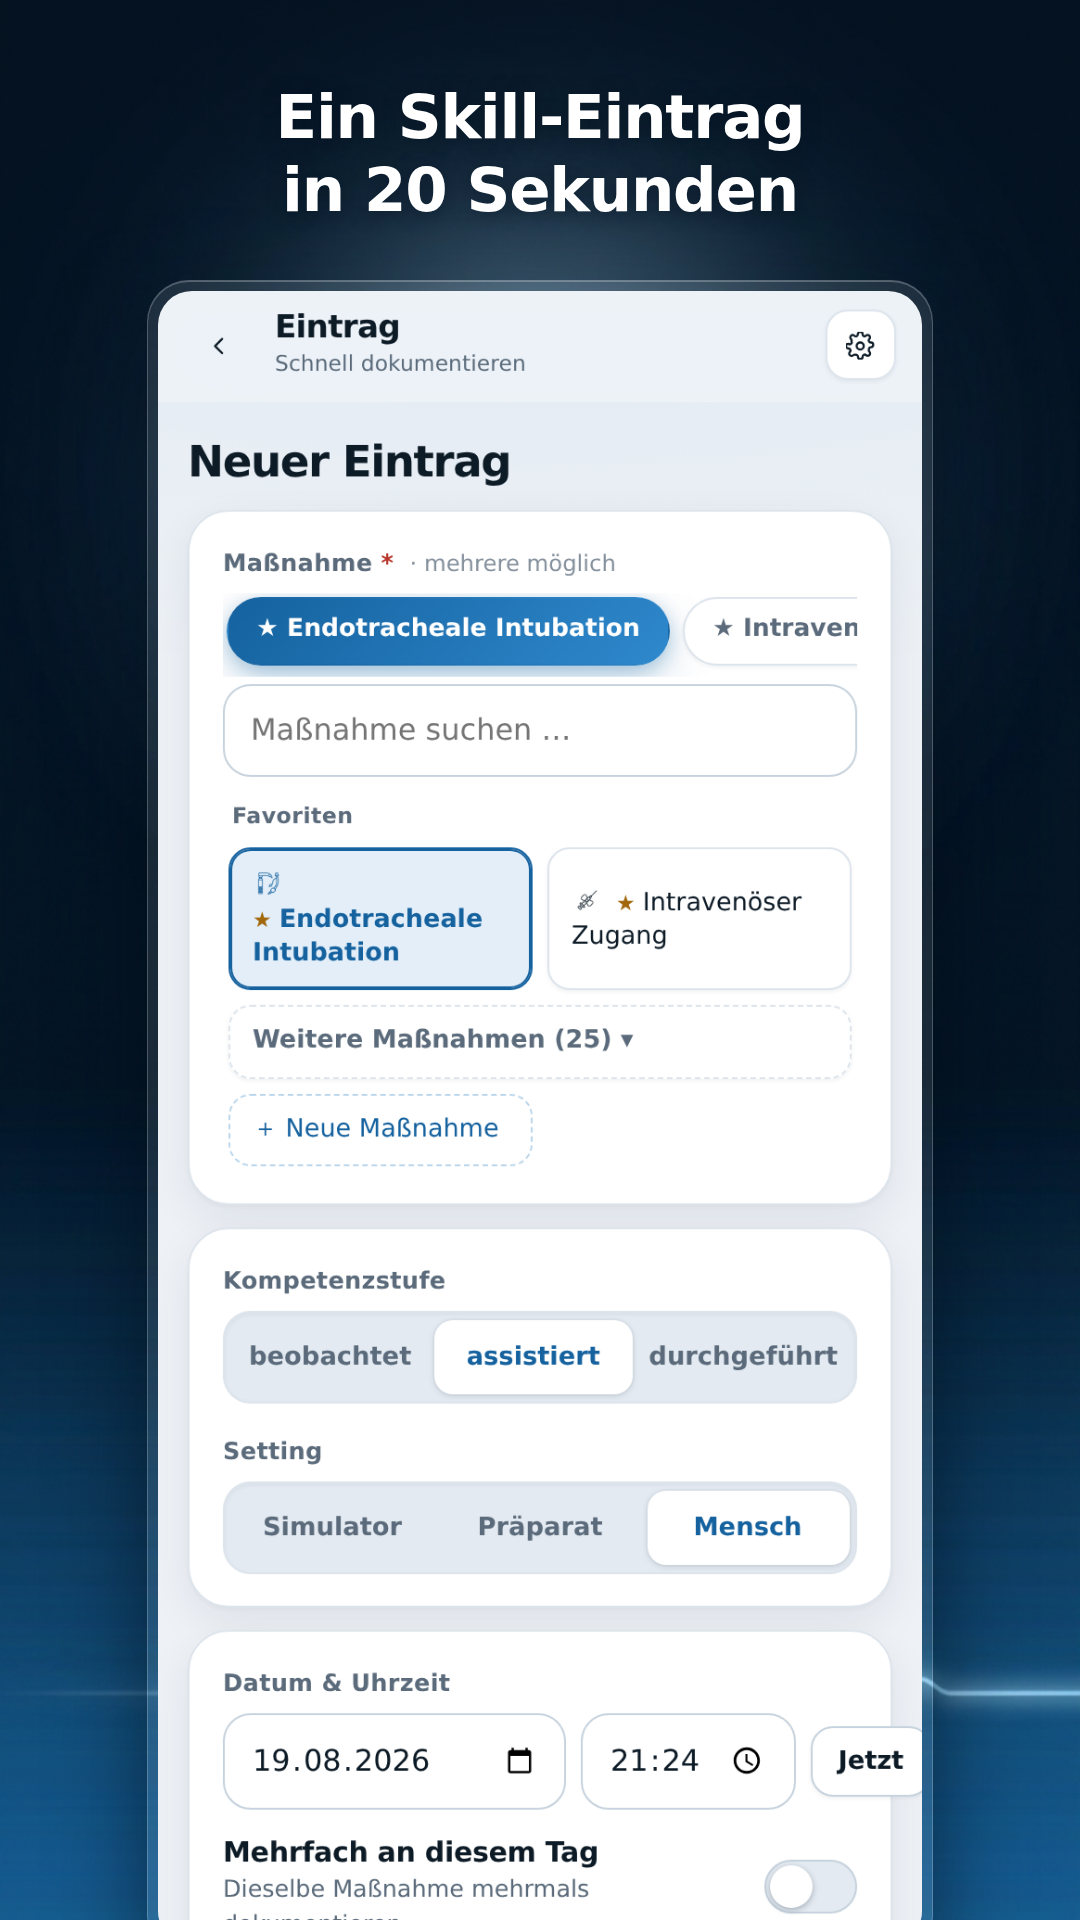
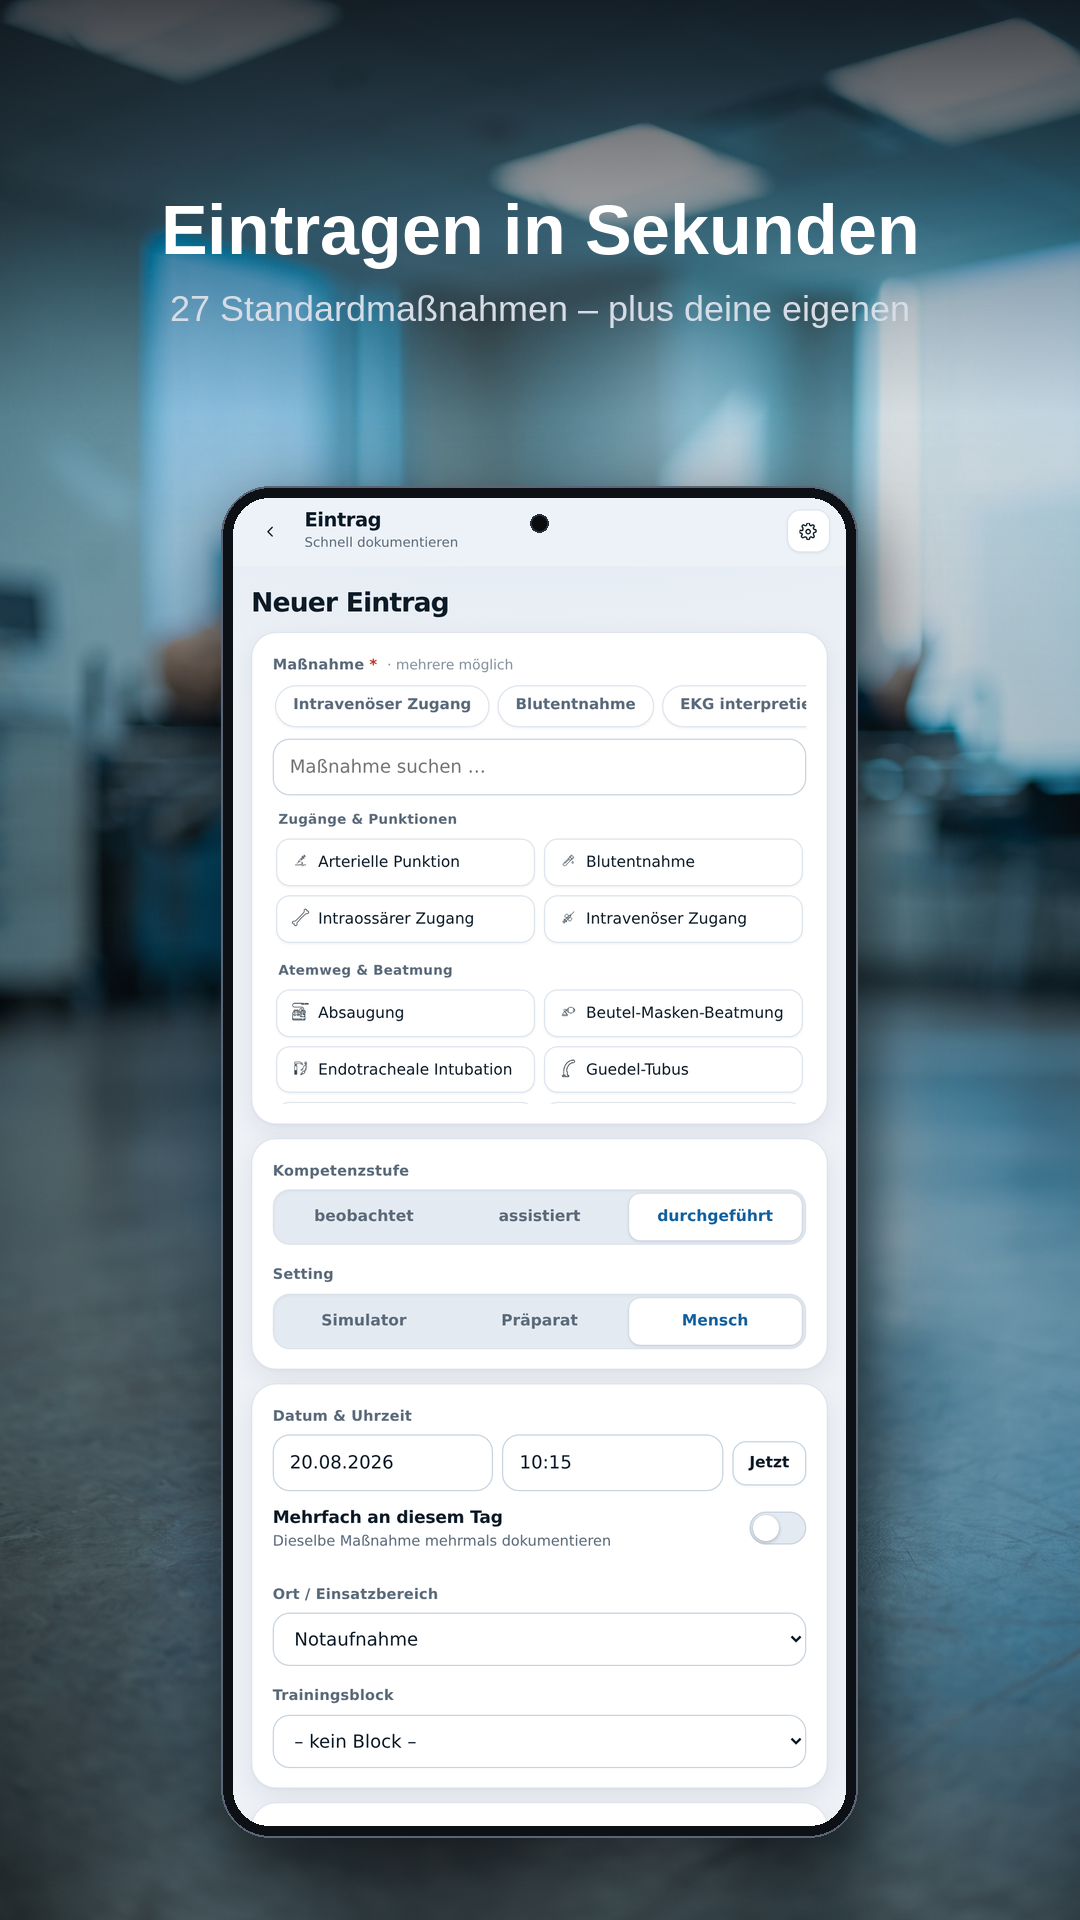
Abschlussprüfung und neue Store-Grafiken (#16)
* Neun Standardmaßnahmen der Notfallsanitäter-Ausbildung samt Symbolen

- Neu im Katalog: Guedel-Tubus, Wendl-Tubus, Larynxtubus, Absaugung,
  Sauerstoffgabe (Atemweg), Defibrillation, Tourniquet (Notfall & Trauma),
  Blutdruckmessung, Blutzuckermessung (Diagnostik) - insgesamt jetzt
  27 Standardmaßnahmen, übersetzt in alle sechs Sprachen.
- Sieben neue Higgsfield-Piktogramme im bekannten Stil (Guedel-, Wendl-,
  Larynxtubus, Absaugpumpe, Sauerstoffflasche mit Maske, Blutzucker-
  messgerät, Tourniquet); Defibrillation nutzt das vorhandene
  Defibrillator-Symbol über das icon-Feld, Blutdruckmessung ihr
  vorhandenes Piktogramm direkt. Symbolauswahl damit 33 Piktogramme.
- Einmalige Migration (Katalog-Stand 3): Bestände bekommen die fehlenden
  Standardmaßnahmen in der aktiven Sprache nachgezogen; vorhandene und
  umbenannte Einträge bleiben unangetastet, Namenskollisionen werden
  übersprungen. Frische Installationen übernehmen das icon-Feld der
  Vorlage.
- Tests: 89 Playwright-Tests grün (Migrationstest prüft jetzt das
  Nachziehen mit); Doku und Store-Texte auf 27 Maßnahmen aktualisiert;
  Screenshots und Store-Grafiken neu erzeugt.

Claude-Session: https://claude.ai/code/session_01S8QpH6zoLxufQ5cCdj5MBb

* Symbole für Larynxtubus, Tourniquet und Wendl-Tubus nach Produktfotos überarbeitet

Die drei Piktogramme zeigen die Instrumente jetzt so, wie sie wirklich
aussehen:

- Larynxtubus: gebogener Tubus mit Konnektor oben, großem Pharynxcuff in
[…]

diff --git a/android/app/src/main/assets/public/index.html b/android/app/src/main/assets/public/index.html
@@ -3713,7 +3713,10 @@ function renderDetail(){
     ? '<span class="tagchips">' + e.tags.map(t => '<span class="tagchip">#' + esc(t) + "</span>").join("") + "</span>"
     : '<span class="muted">keine</span>') + "</dd>";
   if (e.notiz) html += "<dt>Notiz</dt><dd>" + esc(e.notiz).replace(/\n/g, "<br>") + "</dd>";
-  html += "<dt>Erfasst am</dt><dd>" + esc(new Date(e.erstelltAm).toLocaleDateString(LOCALES[SPRACHE] || "de-DE")) + "</dd>";
+  html += "<dt>Erfasst am</dt><dd>" + esc((() => {
+    const d = new Date(e.erstelltAm);
+    return Core.fmtDatum(Core.iso(d.getFullYear(), d.getMonth() + 1, d.getDate()));
+  })()) + "</dd>";
   html += "</dl></div>";
 
   html += '<div class="actions">'

diff --git a/index.html b/index.html
@@ -3713,7 +3713,10 @@ function renderDetail(){
     ? '<span class="tagchips">' + e.tags.map(t => '<span class="tagchip">#' + esc(t) + "</span>").join("") + "</span>"
     : '<span class="muted">keine</span>') + "</dd>";
   if (e.notiz) html += "<dt>Notiz</dt><dd>" + esc(e.notiz).replace(/\n/g, "<br>") + "</dd>";
-  html += "<dt>Erfasst am</dt><dd>" + esc(new Date(e.erstelltAm).toLocaleDateString(LOCALES[SPRACHE] || "de-DE")) + "</dd>";
+  html += "<dt>Erfasst am</dt><dd>" + esc((() => {
+    const d = new Date(e.erstelltAm);
+    return Core.fmtDatum(Core.iso(d.getFullYear(), d.getMonth() + 1, d.getDate()));
+  })()) + "</dd>";
   html += "</dl></div>";
 
   html += '<div class="actions">'

diff --git a/www/index.html b/www/index.html
@@ -3713,7 +3713,10 @@ function renderDetail(){
     ? '<span class="tagchips">' + e.tags.map(t => '<span class="tagchip">#' + esc(t) + "</span>").join("") + "</span>"
     : '<span class="muted">keine</span>') + "</dd>";
   if (e.notiz) html += "<dt>Notiz</dt><dd>" + esc(e.notiz).replace(/\n/g, "<br>") + "</dd>";
-  html += "<dt>Erfasst am</dt><dd>" + esc(new Date(e.erstelltAm).toLocaleDateString(LOCALES[SPRACHE] || "de-DE")) + "</dd>";
+  html += "<dt>Erfasst am</dt><dd>" + esc((() => {
+    const d = new Date(e.erstelltAm);
+    return Core.fmtDatum(Core.iso(d.getFullYear(), d.getMonth() + 1, d.getDate()));
+  })()) + "</dd>";
   html += "</dl></div>";
 
   html += '<div class="actions">'

diff --git a/docs/store-texte.md b/docs/store-texte.md
@@ -68,15 +68,20 @@ Ob ein Bericht als offizieller Nachweis anerkannt wird, entscheidet deine Ausbil
 |---|---|
 | App-Icon 512 × 512 | `icons/icon-512.png` |
 | Feature-Grafik 1024 × 500 | `docs/store-grafiken/feature-grafik-1024x500.png` |
-| Screenshots 1080 × 1920 (7 Stück) | `docs/store-grafiken/screenshot-1…7-1080x1920.png` |
+| Screenshots 1080 × 1920 (5 Stück) | `docs/store-grafiken/screenshot-1…5-1080x1920.png` |
 
-Neu erzeugen lassen sie sich mit:
+Erzeugt mit dem Skill `mercwerk-store-grafiken`; die Konfiguration samt
+Rohaufnahmen und Higgsfield-Hintergründen liegt in
+`docs/store-grafiken/quellen/konfig.json`. Neu bauen:
 
 ```
 python3 -m http.server 8931 &
-node scripts/screenshots.mjs
-node scripts/store-grafiken.mjs
+node <skill>/scripts/aufnehmen.mjs docs/store-grafiken/quellen/konfig.json
+python3 <skill>/scripts/storegrafik.py docs/store-grafiken/quellen/konfig.json
 ```
+
+Das Demoprofil in den Aufnahmen ist erkennbar erfunden („Max Mustermann“,
+Rettungsdienstschule Musterstadt) – keine echten Personendaten.
 
 ## Data Safety – die Antworten in Kurzform
 
